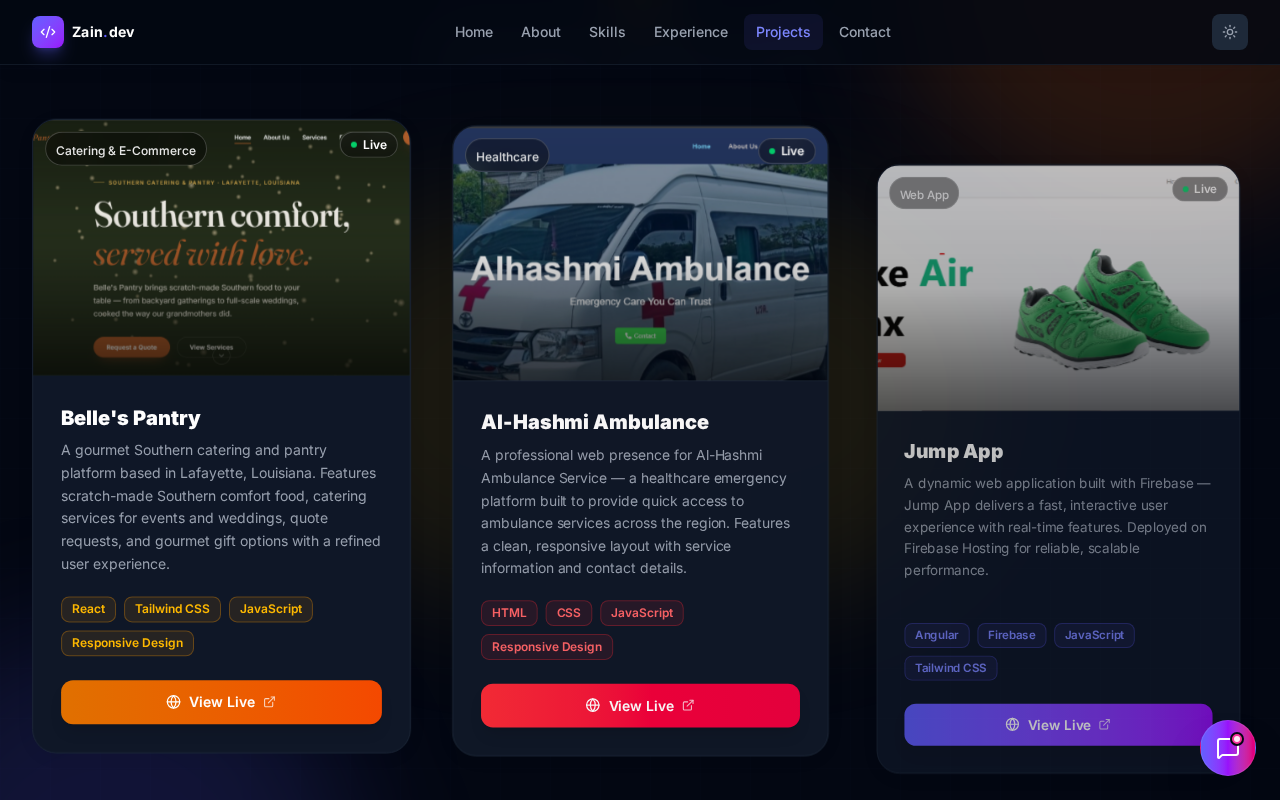
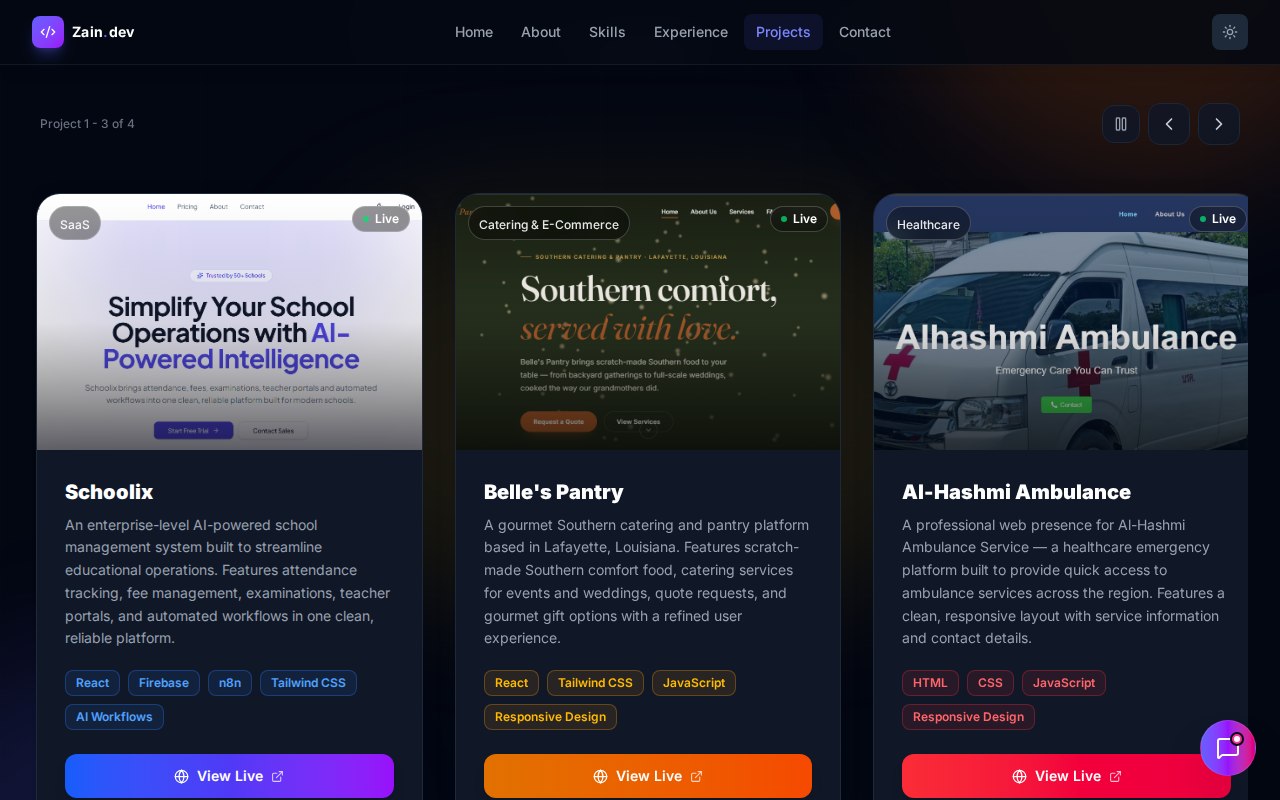
update project thumbnail, category, and remove 3d effects
- Update Schoolix thumbnail image to the provided photo.
- Remove 3D tilt effects and GSAP event listeners from ProjectCard.
- Change Schoolix category tag from 'Enterprise SaaS' to 'SaaS'.
- Remove separate 'Enterprise' badge from ProjectCard.
- Remove 'Interactive Slider' tag while keeping 'Project 1 - 3 of 4' text and slider functionality intact.

diff --git a/src/components/Projects.jsx b/src/components/Projects.jsx
@@ -1,8 +1,7 @@
 import { useRef, useEffect, useState, useCallback } from 'react';
 import { motion } from 'framer-motion';
 import { useInView } from 'framer-motion';
-import { ExternalLink, Globe, ArrowUpRight, ChevronLeft, ChevronRight, Pause, Play, Sparkles } from 'lucide-react';
-import gsap from 'gsap';
+import { ExternalLink, Globe, ArrowUpRight, ChevronLeft, ChevronRight, Pause, Play } from 'lucide-react';
 
 // ── Header Animations ──
 const headerStagger = {
@@ -27,7 +26,7 @@ const projects = [
     badgeBg:     'bg-blue-50 dark:bg-blue-500/10',
     badgeText:   'text-blue-600 dark:text-blue-400',
     badgeBorder: 'border-blue-200 dark:border-blue-500/30',
-    category:    'Enterprise SaaS',
+    category:    'SaaS',
     featured:    true,
   },
   {
@@ -94,52 +93,8 @@ function useVisibleCards() {
 }
 
 function ProjectCard({ project }) {
-  const cardRef = useRef(null);
-
-  useEffect(() => {
-    const card = cardRef.current;
-    if (!card) return;
-
-    const handleMouseMove = (e) => {
-      const rect = card.getBoundingClientRect();
-      const x = e.clientX - rect.left - rect.width / 2;
-      const y = e.clientY - rect.top - rect.height / 2;
-
-      const rotateX = -(y / (rect.height / 2)) * 8;
-      const rotateY = (x / (rect.width / 2)) * 8;
-
-      gsap.to(card, {
-        rotateX: rotateX,
-        rotateY: rotateY,
-        transformPerspective: 800,
-        ease: 'power2.out',
-        duration: 0.3,
-        overwrite: 'auto',
-      });
-    };
-
-    const handleMouseLeave = () => {
-      gsap.to(card, {
-        rotateX: 0,
-        rotateY: 0,
-        ease: 'power2.out',
-        duration: 0.5,
-        overwrite: 'auto',
-      });
-    };
-
-    card.addEventListener('mousemove', handleMouseMove);
-    card.addEventListener('mouseleave', handleMouseLeave);
-
-    return () => {
-      card.removeEventListener('mousemove', handleMouseMove);
-      card.removeEventListener('mouseleave', handleMouseLeave);
-    };
-  }, []);
-
   return (
     <motion.div
-      ref={cardRef}
       whileHover={{
         scale: 1.02,
         y: -5,
@@ -148,7 +103,6 @@ function ProjectCard({ project }) {
       className="group relative flex flex-col h-full bg-white dark:bg-gray-900 rounded-3xl border border-gray-100 dark:border-gray-800 overflow-hidden cursor-pointer"
       style={{
         boxShadow: '0 4px 24px rgba(0,0,0,0.06)',
-        transformStyle: 'preserve-3d',
       }}
       onMouseEnter={(e) => {
         e.currentTarget.style.boxShadow = `0 24px 64px ${project.glowColor}, 0 4px 24px rgba(0,0,0,0.1)`;
@@ -158,7 +112,7 @@ function ProjectCard({ project }) {
       }}
     >
       {/* Thumbnail */}
-      <div className="relative h-56 sm:h-64 overflow-hidden bg-gray-100 dark:bg-gray-800" style={{ transform: 'translateZ(15px)' }}>
+      <div className="relative h-56 sm:h-64 overflow-hidden bg-gray-100 dark:bg-gray-800">
         <img
           src={project.image}
           alt={`${project.title} screenshot`}
@@ -172,17 +126,11 @@ function ProjectCard({ project }) {
           <span className="text-white text-xs font-semibold">Live</span>
         </div>
 
-        {/* Category & Featured Badge */}
+        {/* Category Badge */}
         <div className="absolute top-3 left-3 flex items-center gap-2">
           <div className="px-2.5 py-1 rounded-full bg-black/40 backdrop-blur-md border border-white/20">
             <span className="text-white/90 text-xs font-medium">{project.category}</span>
           </div>
-          {project.featured && (
-            <div className="flex items-center gap-1 px-2.5 py-1 rounded-full bg-amber-500/90 text-white text-xs font-bold backdrop-blur-md shadow-md">
-              <Sparkles size={12} className="animate-spin" style={{ animationDuration: '4s' }} />
-              Enterprise
-            </div>
-          )}
         </div>
 
         {/* Hover overlay */}
@@ -203,7 +151,7 @@ function ProjectCard({ project }) {
       </div>
 
       {/* Body */}
-      <div className="flex flex-col flex-1 p-6 sm:p-7" style={{ transform: 'translateZ(25px)' }}>
+      <div className="flex flex-col flex-1 p-6 sm:p-7">
         <h3 className="text-xl font-black text-gray-900 dark:text-white mb-2 group-hover:text-orange-500 dark:group-hover:text-orange-400 transition-colors duration-200">
           {project.title}
         </h3>
@@ -330,10 +278,7 @@ export default function Projects() {
           className="flex items-center justify-between mb-8 px-2"
         >
           <div className="flex items-center gap-3">
-            <span className="text-xs font-bold uppercase tracking-wider px-3 py-1.5 rounded-full bg-orange-500/10 text-orange-500 dark:text-orange-400 border border-orange-500/20">
-              Interactive Slider
-            </span>
-            <span className="text-xs text-gray-400 dark:text-gray-500 hidden sm:inline-block">
+            <span className="text-xs text-gray-400 dark:text-gray-500 sm:inline-block font-medium">
               Project {safeIndex + 1} - {Math.min(safeIndex + visibleCards, projects.length)} of {projects.length}
             </span>
           </div>
